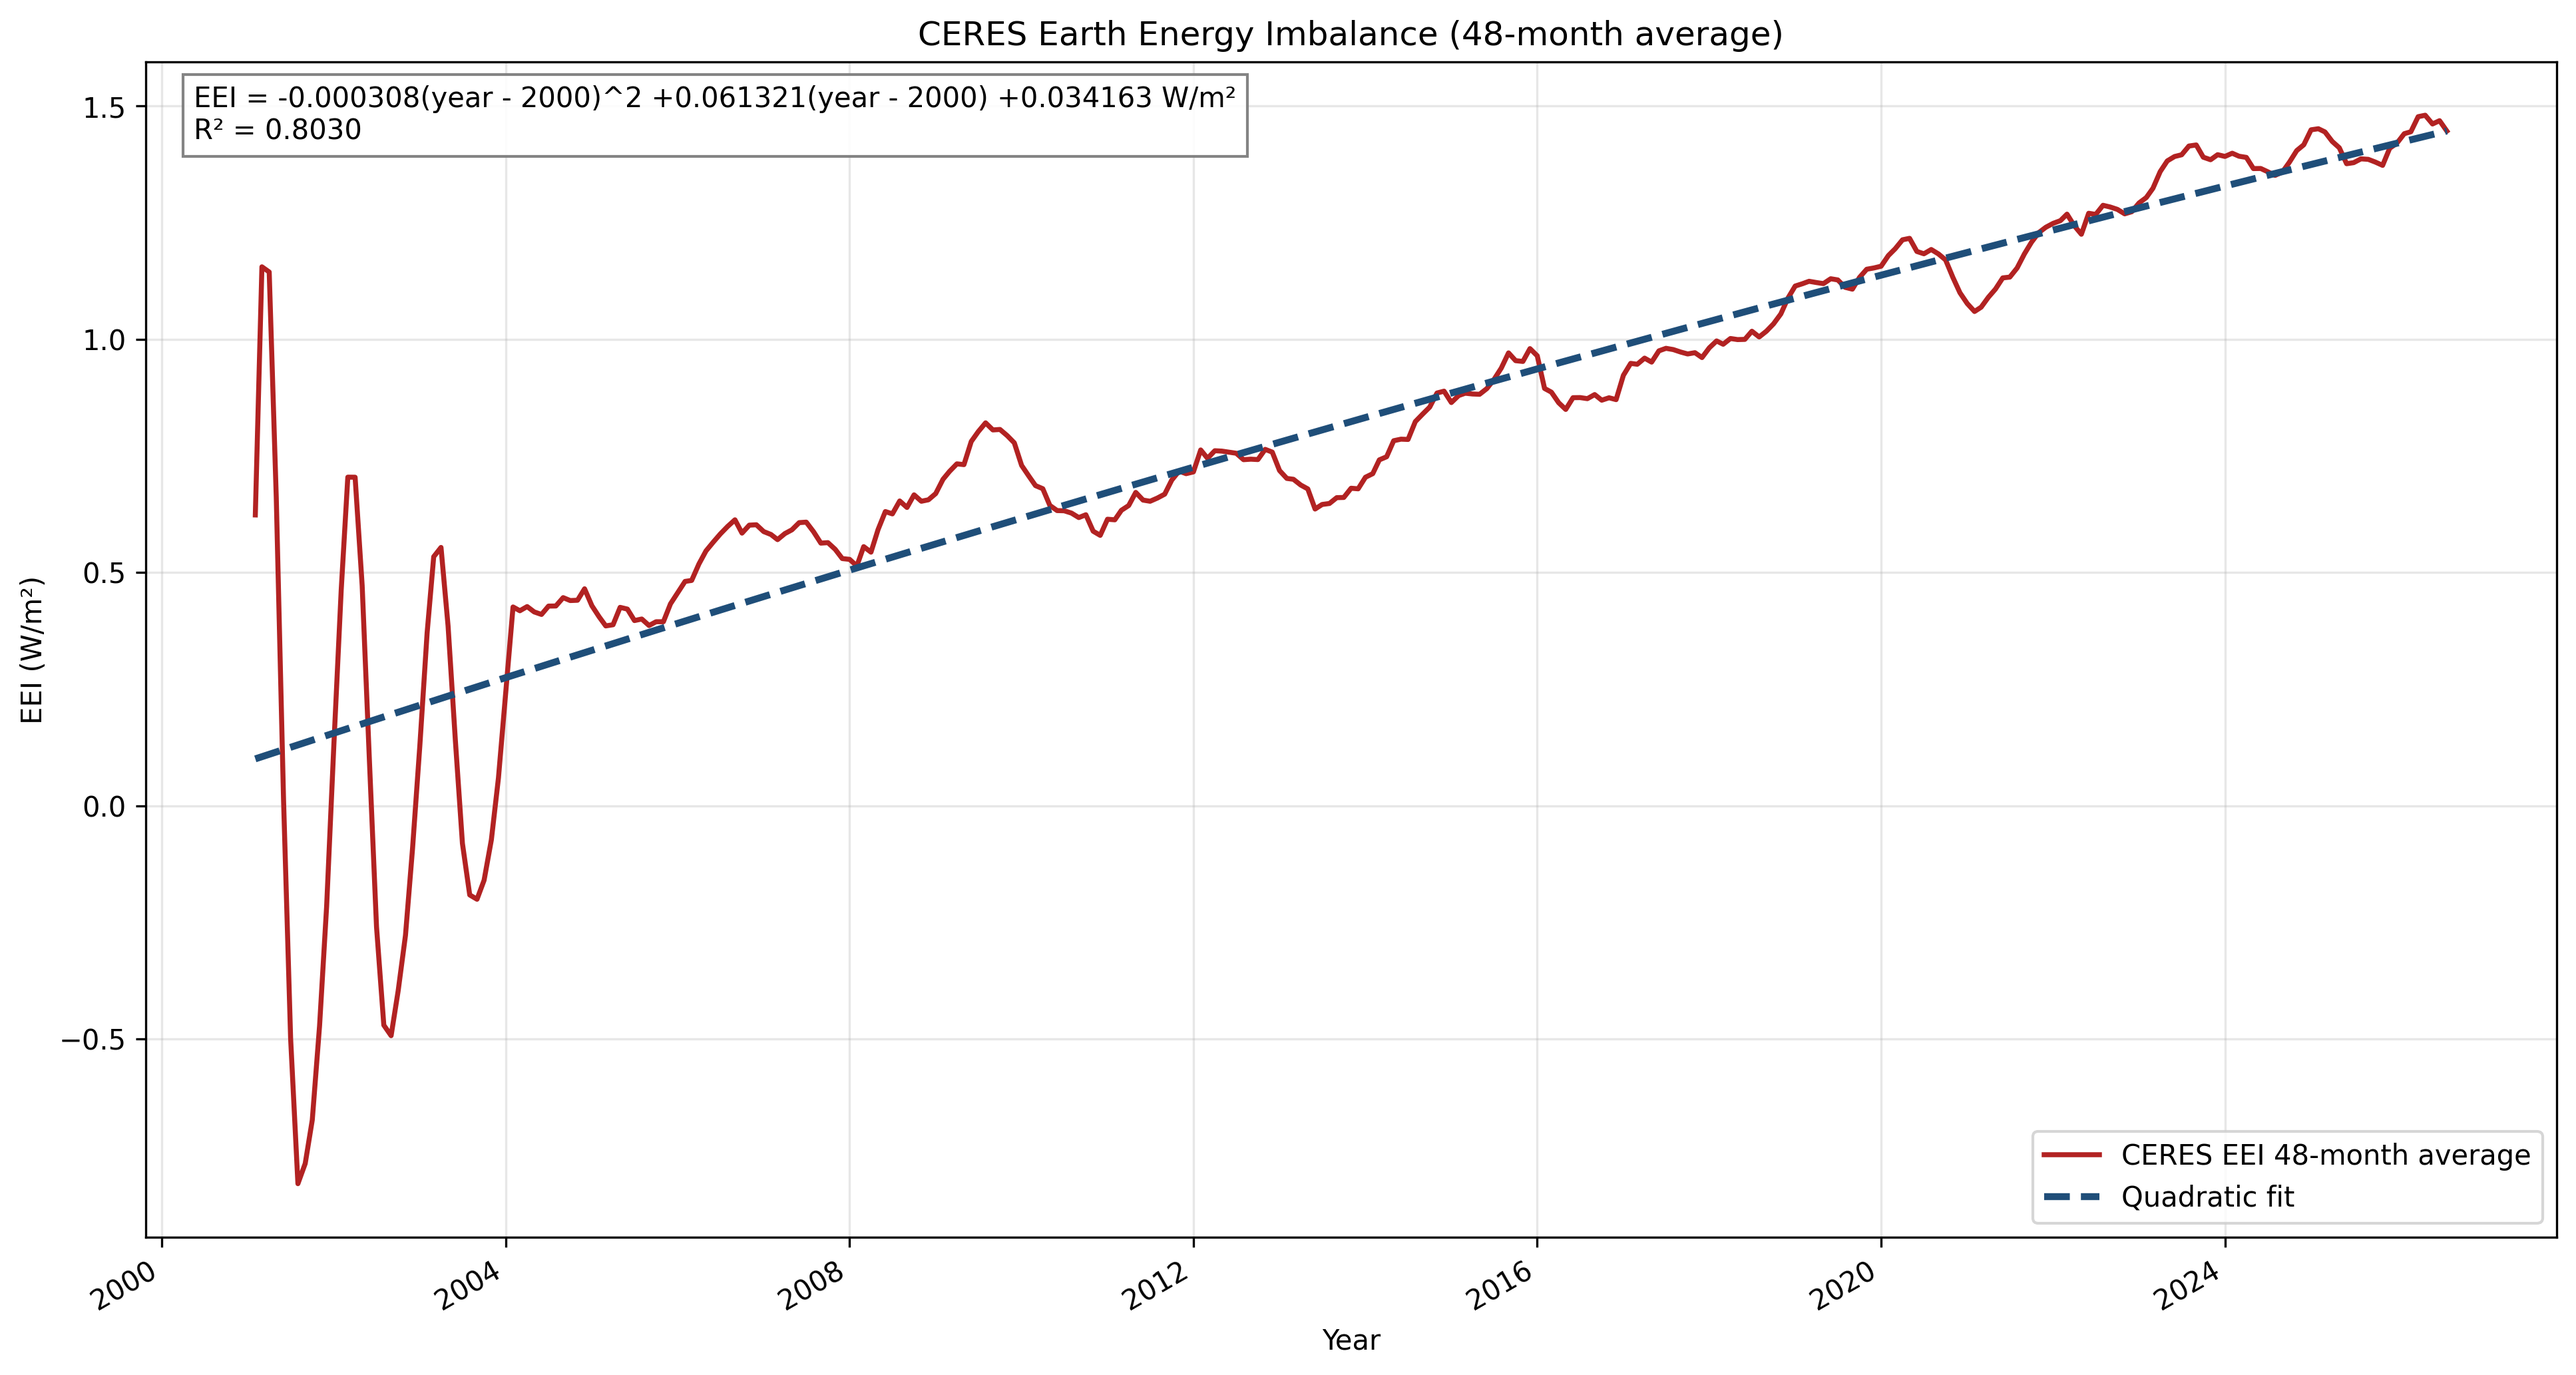
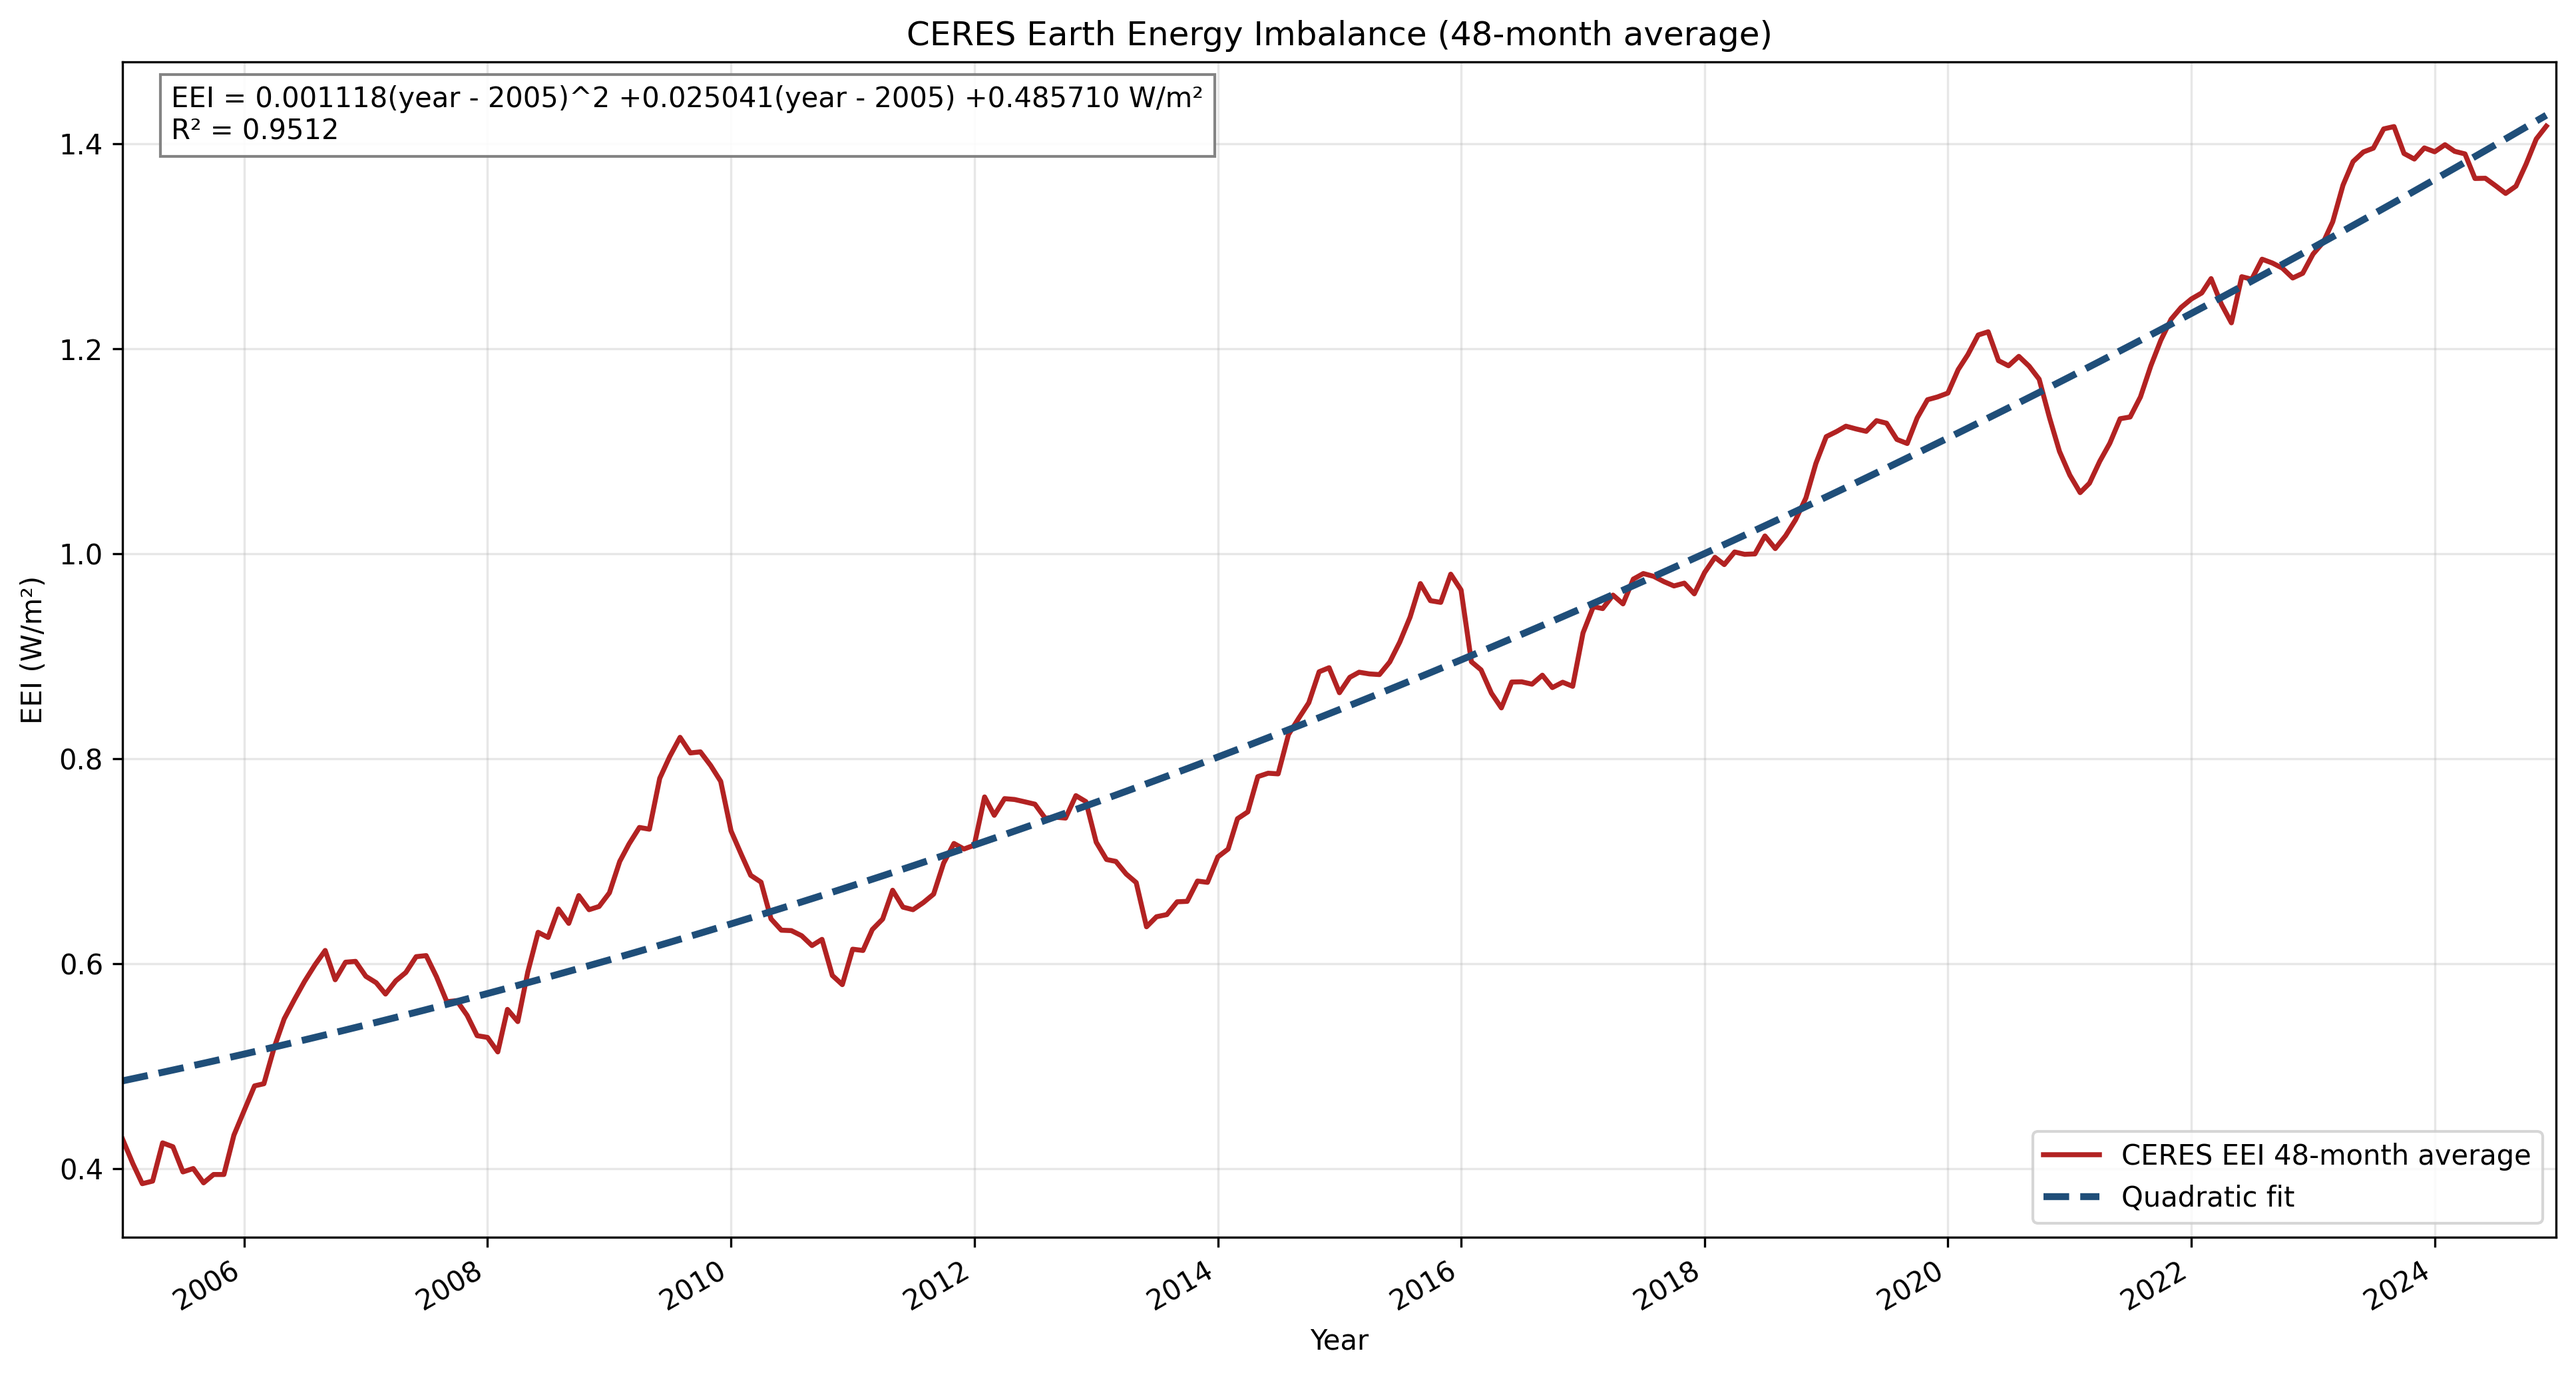
5M21

diff --git a/ceres.py b/ceres.py
@@ -559,22 +559,15 @@ def fig_202_era5_temp_quadratic():
 def fig_404_eei_quadratic():
     """Plot the selected CERES EEI running average with a quadratic fit."""
 
-    if figure404 == 24: play_61_EEI = 24
-    if figure404 == 48: play_61_EEI = 48
-
     if figure404 not in (12, 24, 48):
         raise ValueError("Figure 404 must be set to 12, 24, or 48.")
-    if play_61_EEI != figure404:
-        raise ValueError(
-            f"Figure 404 is set to {figure404}, but play_61_EEI is "
-            f"{play_61_EEI}; set both to the same value (12, 24, or 48)."
-        )
 
+    window_months = figure404
     min1_periods = 12
     use_center=False
     df404c = create_running_average( 'work/61b_out_in_ceres.csv', 
                                      'work/404c_out_EEI.csv',
-                                            window_months=play_61_EEI,
+                                            window_months=window_months,
                                             min_periods=min1_periods,
                                             center=use_center,
                                             column_name='EEI')
@@ -600,9 +593,13 @@ def fig_404_eei_quadratic():
         .sort_values("date")
         .reset_index(drop=True)
     )
+    plot_data = plot_data.loc[
+        plot_data["date"].dt.year.between(x_anf, x_end)
+    ].reset_index(drop=True)
     if len(plot_data) < 3:
         raise ValueError(
-            "At least three valid EEI observations are required for a quadratic fit."
+            f"At least three valid EEI observations from {x_anf} through "
+            f"{x_end} are required for a quadratic fit."
         )
 
     plot_data["decimal_year"] = (
@@ -610,7 +607,7 @@ def fig_404_eei_quadratic():
         + (plot_data["date"].dt.dayofyear - 1)
         / np.where(plot_data["date"].dt.is_leap_year, 366, 365)
     )
-    x = plot_data["decimal_year"] - 2000
+    x = plot_data["decimal_year"] - x_anf
     coefficients = np.polyfit(x, plot_data["EEI"], 2)
     plot_data["quadratic_fit"] = np.polyval(coefficients, x)
     residual_sum_squares = np.sum(
@@ -629,7 +626,7 @@ def fig_404_eei_quadratic():
         plot_data["EEI"],
         color="#b22222",
         linewidth=1.8,
-        label=f"CERES EEI {figure404}-month average",
+        label=f"CERES EEI {window_months}-month average",
     )
     ax.plot(
         plot_data["date"],
@@ -643,8 +640,8 @@ def fig_404_eei_quadratic():
         0.02,
         0.98,
         (
-            f"EEI = {coefficients[0]:.6f}(year - 2000)^2 "
-            f"{coefficients[1]:+.6f}(year - 2000) "
+            f"EEI = {coefficients[0]:.6f}(year - {x_anf})^2 "
+            f"{coefficients[1]:+.6f}(year - {x_anf}) "
             f"{coefficients[2]:+.6f} W/m²\n"
             f"R² = {r_squared:.4f}"
         ),
@@ -652,11 +649,15 @@ def fig_404_eei_quadratic():
         va="top",
         bbox={"facecolor": "white", "alpha": 0.9, "edgecolor": "#777777"},
     )
-    ax.set_title(f"CERES Earth Energy Imbalance ({figure404}-month average)")
+    ax.set_title(f"CERES Earth Energy Imbalance ({window_months}-month average)")
     ax.set_xlabel("Year")
     ax.set_ylabel("EEI (W/m²)")
     ax.grid(True, alpha=0.3)
     ax.legend(loc="best")
+    ax.set_xlim(
+        pd.Timestamp(year=x_anf, month=1, day=1),
+        pd.Timestamp(year=x_end, month=12, day=31),
+    )
     fig.autofmt_xdate()
     fig.tight_layout()
     os.makedirs(os.path.dirname(output_path), exist_ok=True)
@@ -664,8 +665,8 @@ def fig_404_eei_quadratic():
 
     print(
         "Figure 404 quadratic fit: "
-        f"EEI = {coefficients[0]:.9f}(year - 2000)^2 "
-        f"{coefficients[1]:+.9f}(year - 2000) "
+        f"EEI = {coefficients[0]:.9f}(year - {x_anf})^2 "
+        f"{coefficients[1]:+.9f}(year - {x_anf}) "
         f"{coefficients[2]:+.9f} W/m²; R² = {r_squared:.6f}"
     )
     print(f"Saved Figure 404 to {output_path}")

diff --git a/main.py b/main.py
@@ -1,5 +1,5 @@
 # main.py
-v = "5M20" # make a separate new figure404 for play_61_EEI = 12 this is file work/61c_out_EEI.csv column EEI 
+v = "5M21" # make a separate new figure404 for play_61_EEI = 12 this is file work/61c_out_EEI.csv column EEI 
 #            print the quadratic equation for EEI inside figure404
 # https://github.com/Boettcher1960/5_CO2_EEI_T
 # ocean stratification https://bsky.app/profile/thomas-boettcher.bsky.social/post/3mj7zx7fzsc26

diff --git a/models.py b/models.py
@@ -1053,7 +1053,10 @@ figure404 = 12 # 12=create a separate quadratic-fit figure for play_61_EEI = 12
 figure404 = 24 # 24=create a separate quadratic-fit figure for play_61_EEI = 24
 figure404 = 48 # 48=create a separate quadratic-fit figure for play_61_EEI = 48
 
-4=create a separate quadratic-fit figure for play_61_EEI = 12
+modify figure404 to start in the year 2005
+x_anf = 2005
+and end in the year 2024
+x_end = 2024 
 
 
 """

diff --git a/config.py b/config.py
@@ -281,8 +281,8 @@ cbox304Ma="#ffcccc"
 cbox304Maedge="red"
 plot304_450ppm_blue_band = 0 # 0 , 1 = plot
 
-x_anf = 2000   # 2005
-x_end = 2028   # 2028
+x_anf = 2005   # 2005
+x_end = 2024   # 2028
 
 # XLO, XHI = 125, 1500
 
